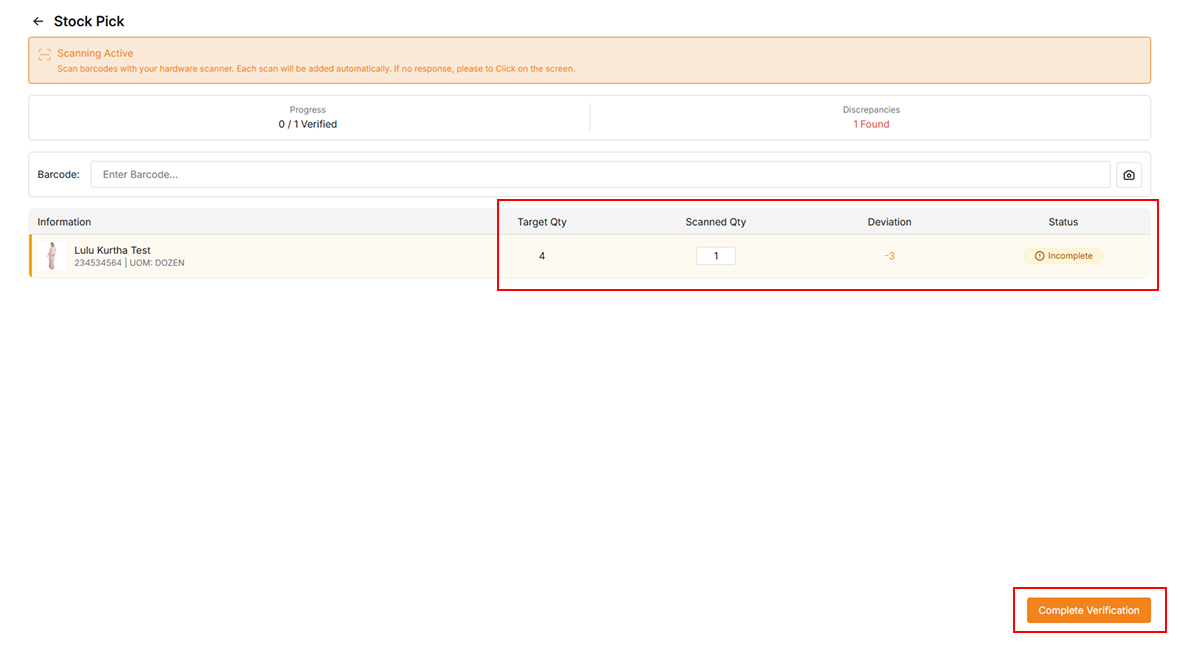
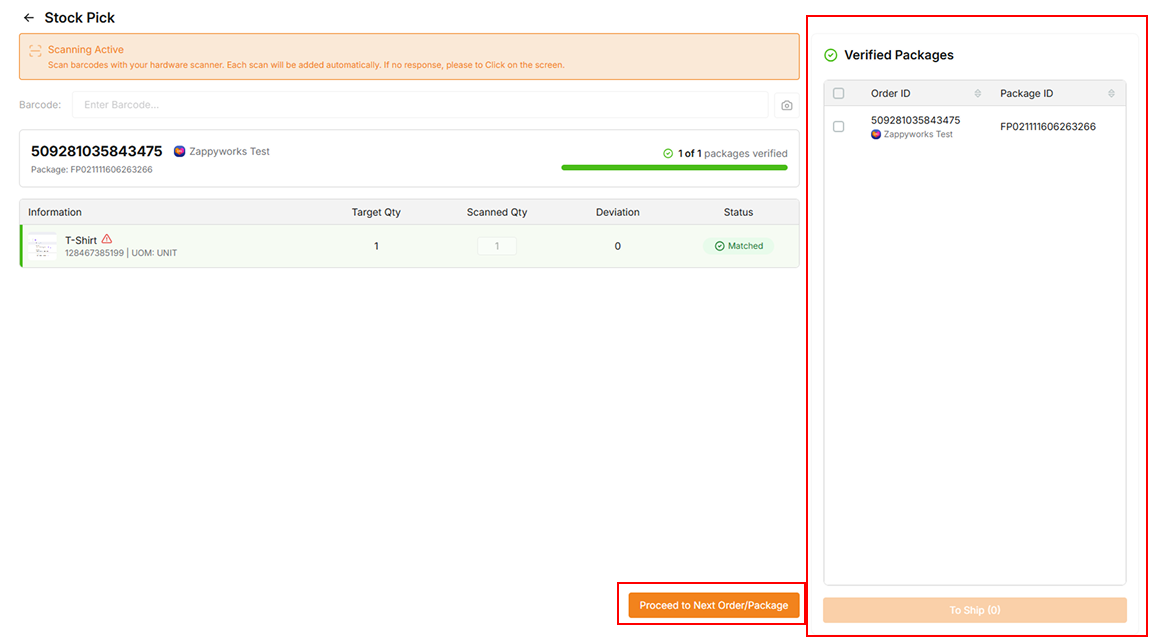
update: update orders documentation

diff --git a/docs/integration/xstore/orders/orders.md b/docs/integration/xstore/orders/orders.md
@@ -73,48 +73,79 @@ The order processing flow moves through several stages. Different actions are av
 
 ### Step 3: Stock Pick (Optional)
 
-Use **Stock Pick** to optionally verify order items before processing orders for shipping.
+Use **Stock Pick** to optionally verify package items before processing packages for shipping.
+
 
 ![to-process-tab-stock-pick](../../../../static/img/xstore/orders/to-process-tab-stock-pick.png)
 
-1. Click the **Stock Pick** icon
+1. In the **To Process** tab, click the **Stock Pick** icon
+
+#### Load an Order or Package
 
 ![stock-pick-empty](../../../../static/img/xstore/orders/stock-pick-empty.png)
 
-1. Click on the screen and scan the Order ID
-2. **Alternative:** Type the Order ID manually and press Enter
-3. **Alternative:** Click the **Camera** icon to scan the Order ID with your device camera (see [Scan with Camera](#scan-with-camera))
+1. Click on the screen and scan the **Order ID**/**Package ID** 
+2. **Alternative:** Type the **Order ID**/**Package ID** manually and press Enter
+3. **Alternative:** Click the **Camera** icon to scan it with your device camera (see [Scan with Camera](#scan-with-camera))
 
-![stock-pick-order](../../../../static/img/xstore/orders/stock-pick-order.png)
+What is loaded depends on what you scan:
+
+| Scanned                                     | Result                                       |
+| ------------------------------------------- | -------------------------------------------- |
+| **Package ID**                              | That package is loaded for verification      |
+| **Order ID** with one package to verify     | The package is loaded for verification       |
+| **Order ID** with multiple packages         | The **Select Package** popup appears         |
+
+![stock-pick-load-package](../../../../static/img/xstore/orders/stock-pick-load-package.png)
+
+![stock-pick-load-order](../../../../static/img/xstore/orders/stock-pick-load-order.png)
+
+![stock-pick-package-dialog](../../../../static/img/xstore/orders/stock-pick-package-dialog.png)
+
+#### Select Packages
+
+![stock-pick-select-package](../../../../static/img/xstore/orders/stock-pick-select-package.png)
+
+When the order has more than one package to verify:
+
+1. Select the packages you want to verify by clicking the checkbox next to each package, or click the Select All checkbox to select every package within the order
+2. Click **Continue**
+
+#### Verify Items
 
 ![stock-pick-verification](../../../../static/img/xstore/orders/stock-pick-verification.png)
 
-1. Click on the screen and scan the barcode
+1. Click on the screen and scan the item barcode
 2. **Alternative:** Type the barcode number manually and press Enter
 3. **Alternative:** Click the **Camera** icon to scan the barcode with your device camera (see [Scan with Camera](#scan-with-camera))
 4. **Alternative:** Type the quantity in the **Scanned Qty** field
 
-If the scanned quantity does not match the target quantity (status showing **Incomplete** or **Overscan**), but you have manually confirmed the order is correct:
+Each item may show one of the following statuses:
 
-1. Click the **Complete Verification** button to mark the order as verified
-2. The verified order will appear in the verified order list as shown below
+| Status         | Description                                           |
+| -------------- | ----------------------------------------------------- |
+| **Pending**    | The item has not been scanned yet                     |
+| **Matched**    | The scanned quantity matches the target quantity      |
+| **Incomplete** | The scanned quantity is less than the target quantity |
+| **Overscan**   | The scanned quantity is more than the target quantity |
 
-   ![stock-pick-verified-orders-list](../../../../static/img/xstore/orders/stock-pick-verified-orders-list.png)
+If the scanned quantity does not match the target quantity (status showing **Incomplete** or **Overscan**), but you have manually confirmed the package is correct:
 
-3. Click **Proceed to Next Order** to continue; the order remains in the list until you proceed
+1. Click the **Complete Verification** button to mark the package as verified
+2. The package is added to the **Verified Packages** list, and the next selected package is loaded (If you selected more than one package)
 
-If the scanned items fully match, a success popup will appear and the verified order list will update automatically:
+When all packages are verified, a success popup appears:
 
 ![stock-pick-sucessful-verification-popup](../../../../static/img/xstore/orders/stock-pick-sucessful-verification-popup.png)
 
-1. Click **Proceed to Next Order** on the popup to reset and continue with the next order
-2. **Alternative:** Click **Review Current Order** to stay on the current order
+1. Click **Proceed to Next Order/Package** to clear the screen and scan the next order or package
+2. **Alternative:** Close the popup to review the current package, then click **Proceed to Next Order/Package** at the bottom of the screen when you are done
 
-![stock-pick-to-ship-selection](../../../../static/img/xstore/orders/stock-pick-to-ship-selection.png)
+#### Move Verified Packages to To Ship
 
-To move verified orders to **To Ship**:
+![stock-pick-to-ship](../../../../static/img/xstore/orders/stock-pick-to-ship.png)
 
-1. Select orders by clicking the checkbox next to each order
+1. Select the packages you want to ship by clicking the checkbox next to each package, or click the header checkbox to select all
 2. Click the **To Ship** button
 
 ![stock-pick-to-ship-result](../../../../static/img/xstore/orders/stock-pick-to-ship-result.png)
